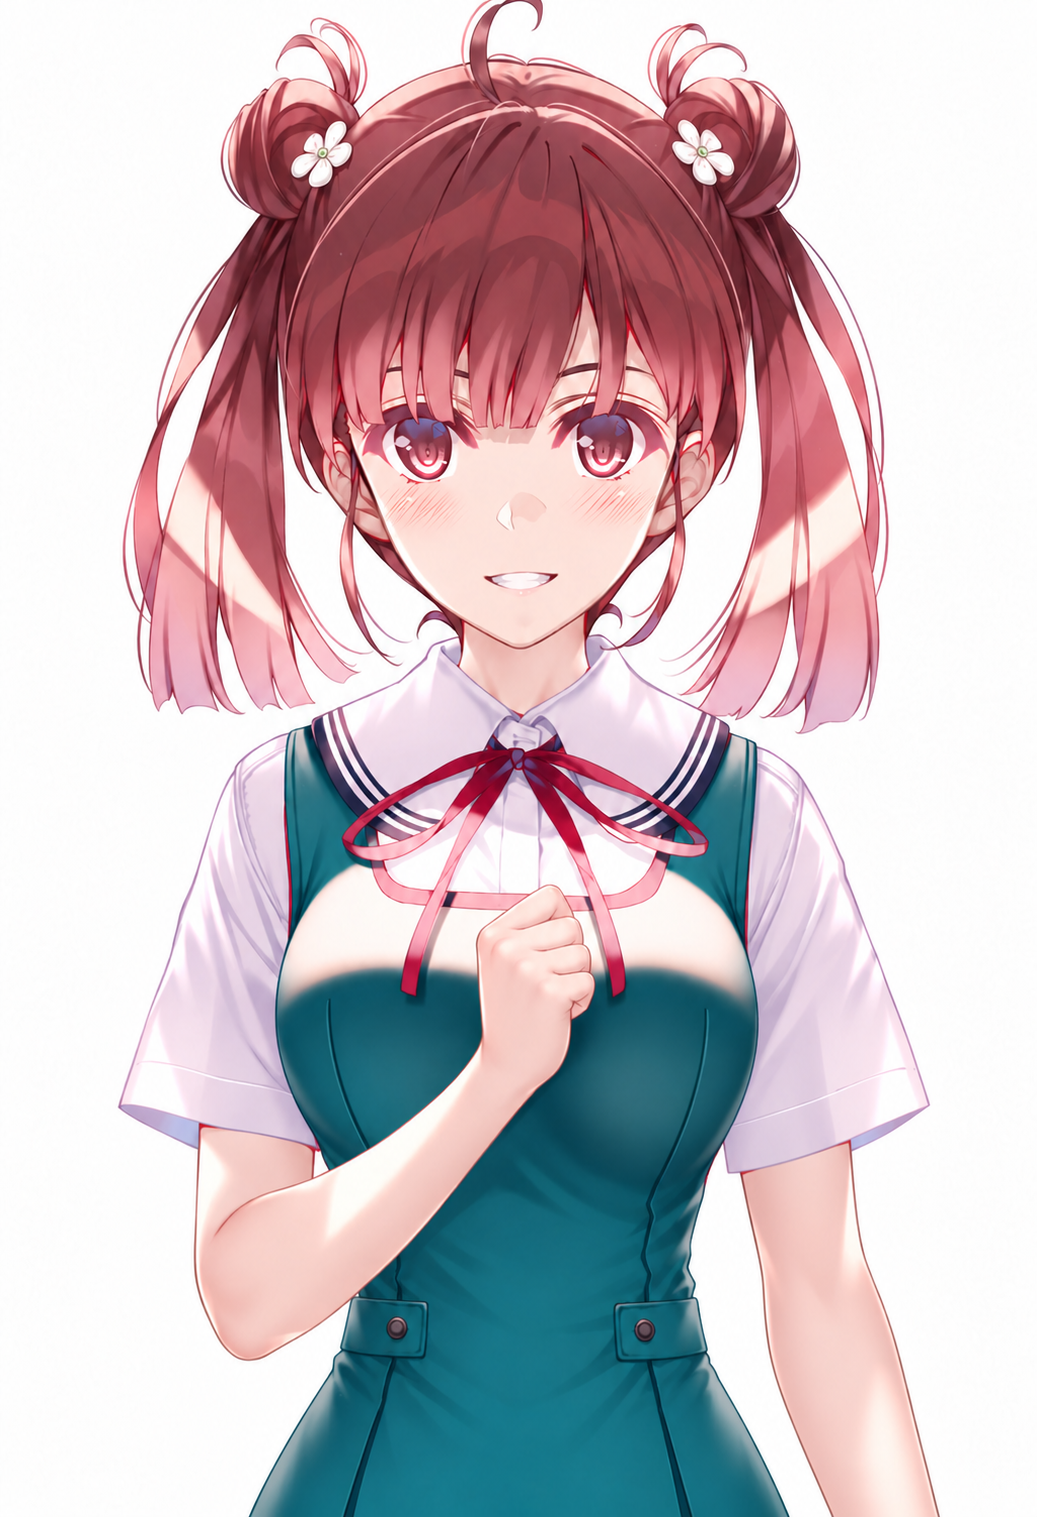
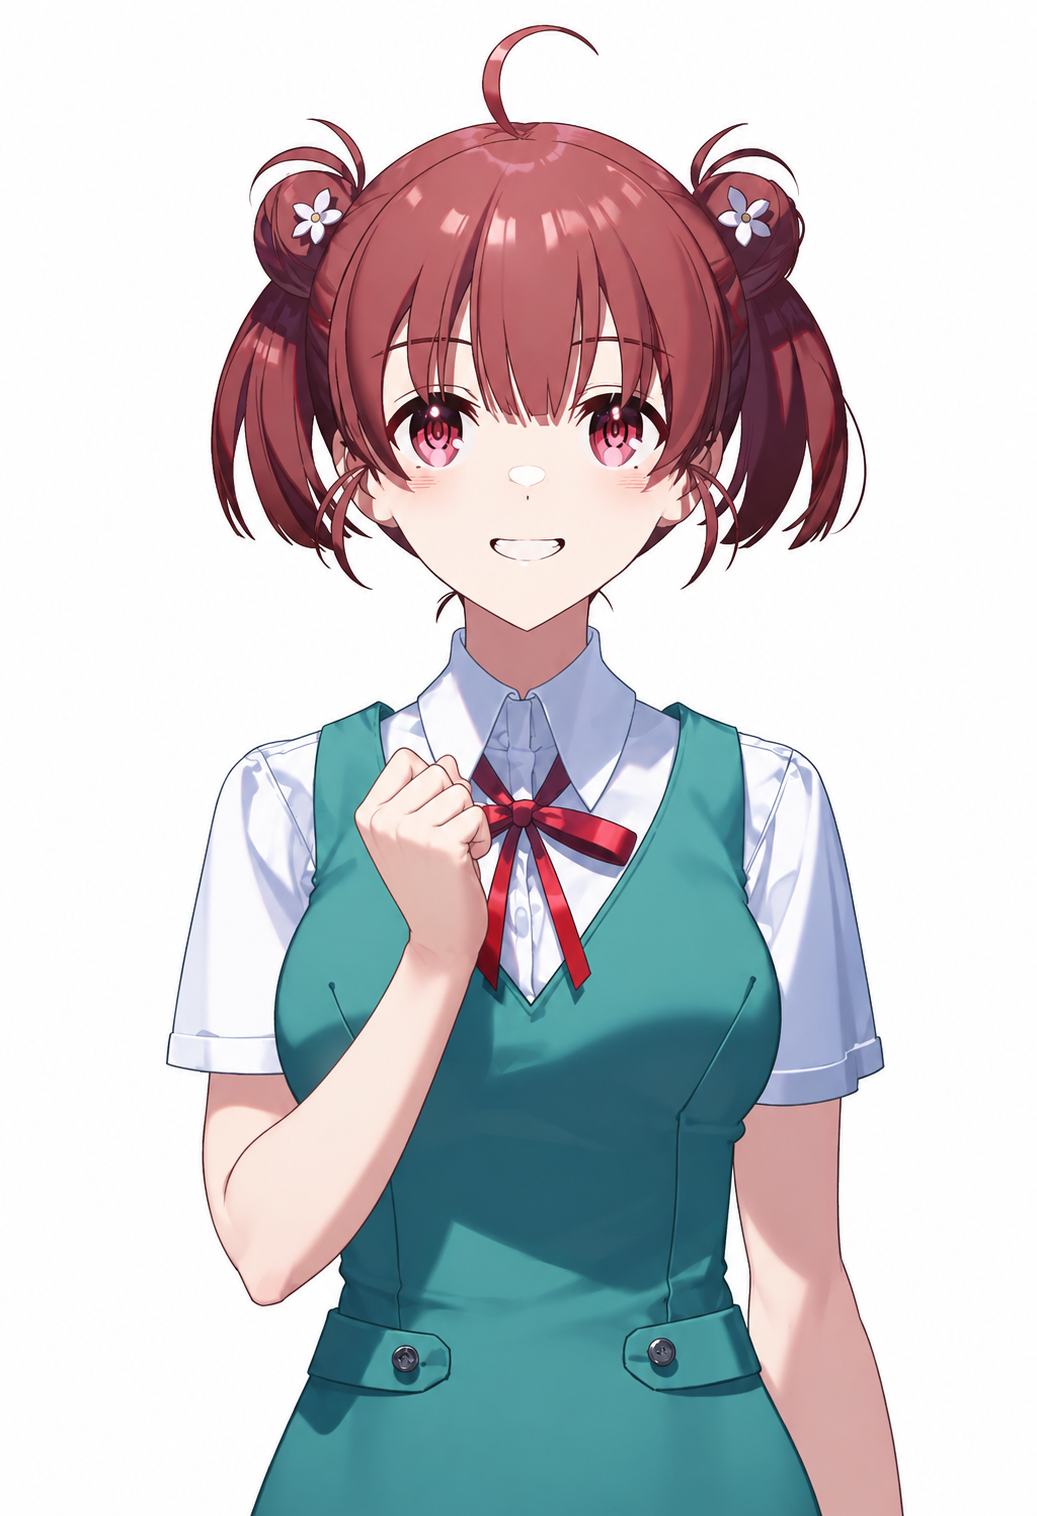
Update 波岛出海 default portrait

diff --git a/images/portraits/saekano/hashima-izumi/README.md b/images/portraits/saekano/hashima-izumi/README.md
@@ -1,9 +1,9 @@
 # 波岛出海 · 常规立绘
 
 - 当前文件：[default.png](default.png)。
-- 用户选定原图：`219-izumi-separated-arm-fitted-waist-v2-s1199991999-20260914.png`。
-- 尺寸：1037 × 1517；大小：1,666,137 字节。
[1 lines of base64/hex data omitted]
+- 用户选定原图：`edited-v1.png`。
+- 尺寸：1037 × 1516；大小：1,262,862 字节。
[1 lines of base64/hex data omitted]
 - PNG 模型记录：未知。
 - 可读取的生成参数：seed 未知；steps 未知；scale 未知；cfg_rescale 未知；sampler 未知；noise_schedule 未知。
 - 原图字节及内嵌数据完整保留，没有裁切、缩放、抠图或重新编码。
